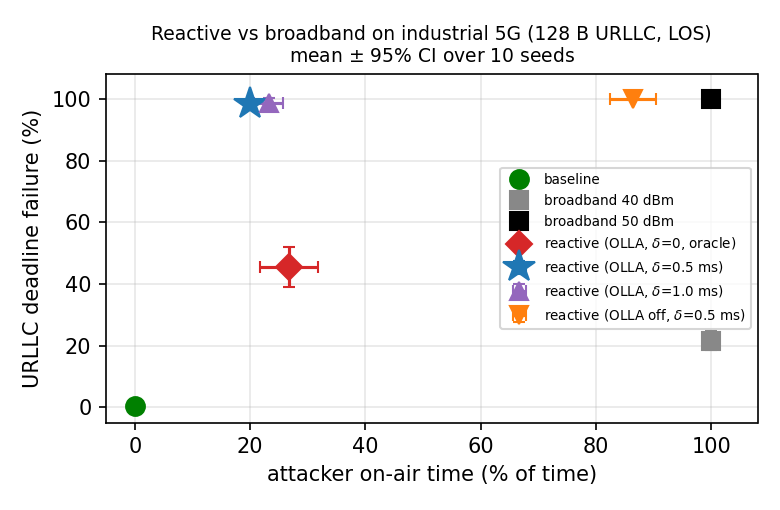
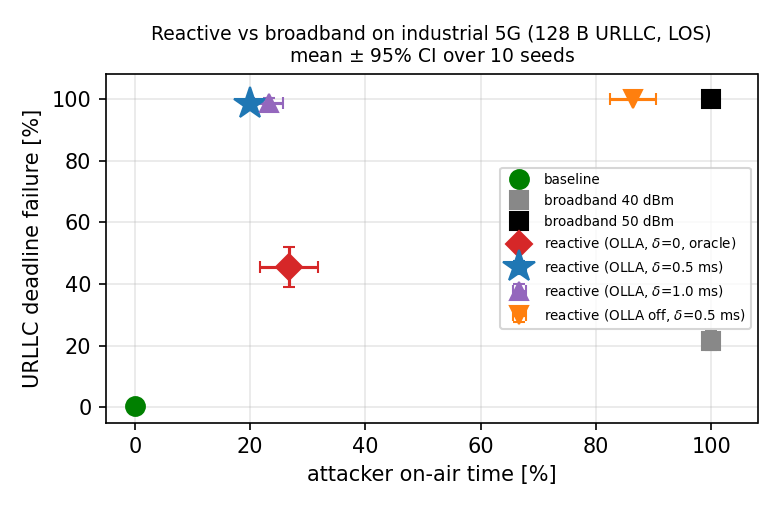
paper: clarify attacker re-fires under OLLA recovery; bracket figure units
Algorithm prose and pseudocode now state the jammer is not idle once the
link is trapped: OLLA raises the MCS back up on ACKs, so the attacker fires
occasional pulses when the MCS re-crosses the threshold (addresses supervisor
Q on "OLLA recovers, attacker not idle"). On-air time is low but not zero.

Figure axis labels relabeled with bracketed units across Figs 4-7
([%], [dB], [dBm], [ms]); Fig 5 y-axis now names the quantity
("on-air time / deadline failure [%]") instead of a bare "percent".

Changed region(s): [[0.3385, 0.9118, 0.7692, 0.9412], [0.0308, 0.2647, 0.0615, 0.2941], [0.0308, 0.2059, 0.0615, 0.2353]]

diff --git a/scenarios/paper/MCS-Downgrade-5GLENA-Paper.tex b/scenarios/paper/MCS-Downgrade-5GLENA-Paper.tex
@@ -296,10 +296,13 @@ is running fast and is worth attacking: after the decode delay $\delta$ the jamm
 short interference pulse on the victim's resources, corrupting that high-MCS block. The
 block is received but fails its CRC, so the victim returns a \emph{genuine} NACK; OLLA
 reads the NACK and lowers the per-UE offset, and the effective MCS drops on its own. If
-$m_t$ is below $\theta$, the victim is already slow: the jammer stays silent, spending no
-on-air time, and the lowered MCS holds because OLLA only raises the offset slowly, on
-ACKs. The attacker never touches feedback directly; it only times pulses against
-blocks the network itself will then report as failures.
+$m_t$ is below $\theta$, the victim is already slow, so the jammer stays silent this slot
+and spends no on-air time. OLLA raises the offset only slowly, on ACKs, so the MCS drifts
+back up over many slots, and the jammer fires again once it re-crosses $\theta$. The
+attacker is therefore not idle once the link is trapped: it fires occasional pulses to
+hold the MCS down, which is why its on-air time is low but not zero. The attacker never
+touches feedback directly; it only times pulses against blocks the network itself will
+then report as failures.
 
 \begin{algorithm}[t]
 \caption{Reactive MCS-downgrade jammer}
@@ -312,8 +315,8 @@ blocks the network itself will then report as failures.
   \If{$m_t \ge \theta$} \Comment{victim is running fast}
     \State at time $t+\delta$: \textsc{EmitPulse}(victim resources)
     \State \Comment{corrupt block $\to$ genuine NACK $\to$ OLLA lowers offset $\to$ MCS $\downarrow$}
-  \Else \Comment{victim already trapped low}
-    \State \textsc{StaySilent}() \Comment{no on-air time; low MCS holds}
+  \Else \Comment{victim slow; fire again when it recovers past $\theta$}
+    \State \textsc{StaySilent}() \Comment{no on-air time this slot}
   \EndIf
 \EndFor
 \end{algorithmic}
